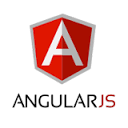
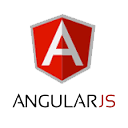
Fixed Angular and Visual Studio Images to remove white

diff --git a/partials/footer/footer.html b/partials/footer/footer.html
@@ -1,3 +1,29 @@
-<div class="snapshot-3">
+<div class="snapshot-3 row">
+    <div class="col-lg-12">
+        <div class="col-lg-2">
+            <img class="footer-image" src="images/yeoman.png"/>
+
+        </div>
+        <div class="col-lg-2">
+            <img class="footer-image" src="images/gulp.png"/>
+
+        </div>
+        <div class="col-lg-2">
+            <img class="footer-image" src="images/responsive.png"/>
+
+        </div>
+        <div class="col-lg-2">
+            <img class="footer-image" src="images/git.png"/>
+
+        </div>
+        <div class="col-lg-2">
+            <img class="footer-image" src="images/npm.png"/>
+
+        </div>
+        <div class="col-lg-2">
+            <img class="footer-image" src="images/nodejs.png"/>
+
+        </div>
+    </div>
 
 </div>

diff --git a/app.css b/app.css
@@ -1099,3 +1099,8 @@ ul {
 .custom-button:hover {
     background: antiquewhite !important;
 }
+.footer-image {
+    height: 110px;
+    margin-top: 60px;
+
+}
